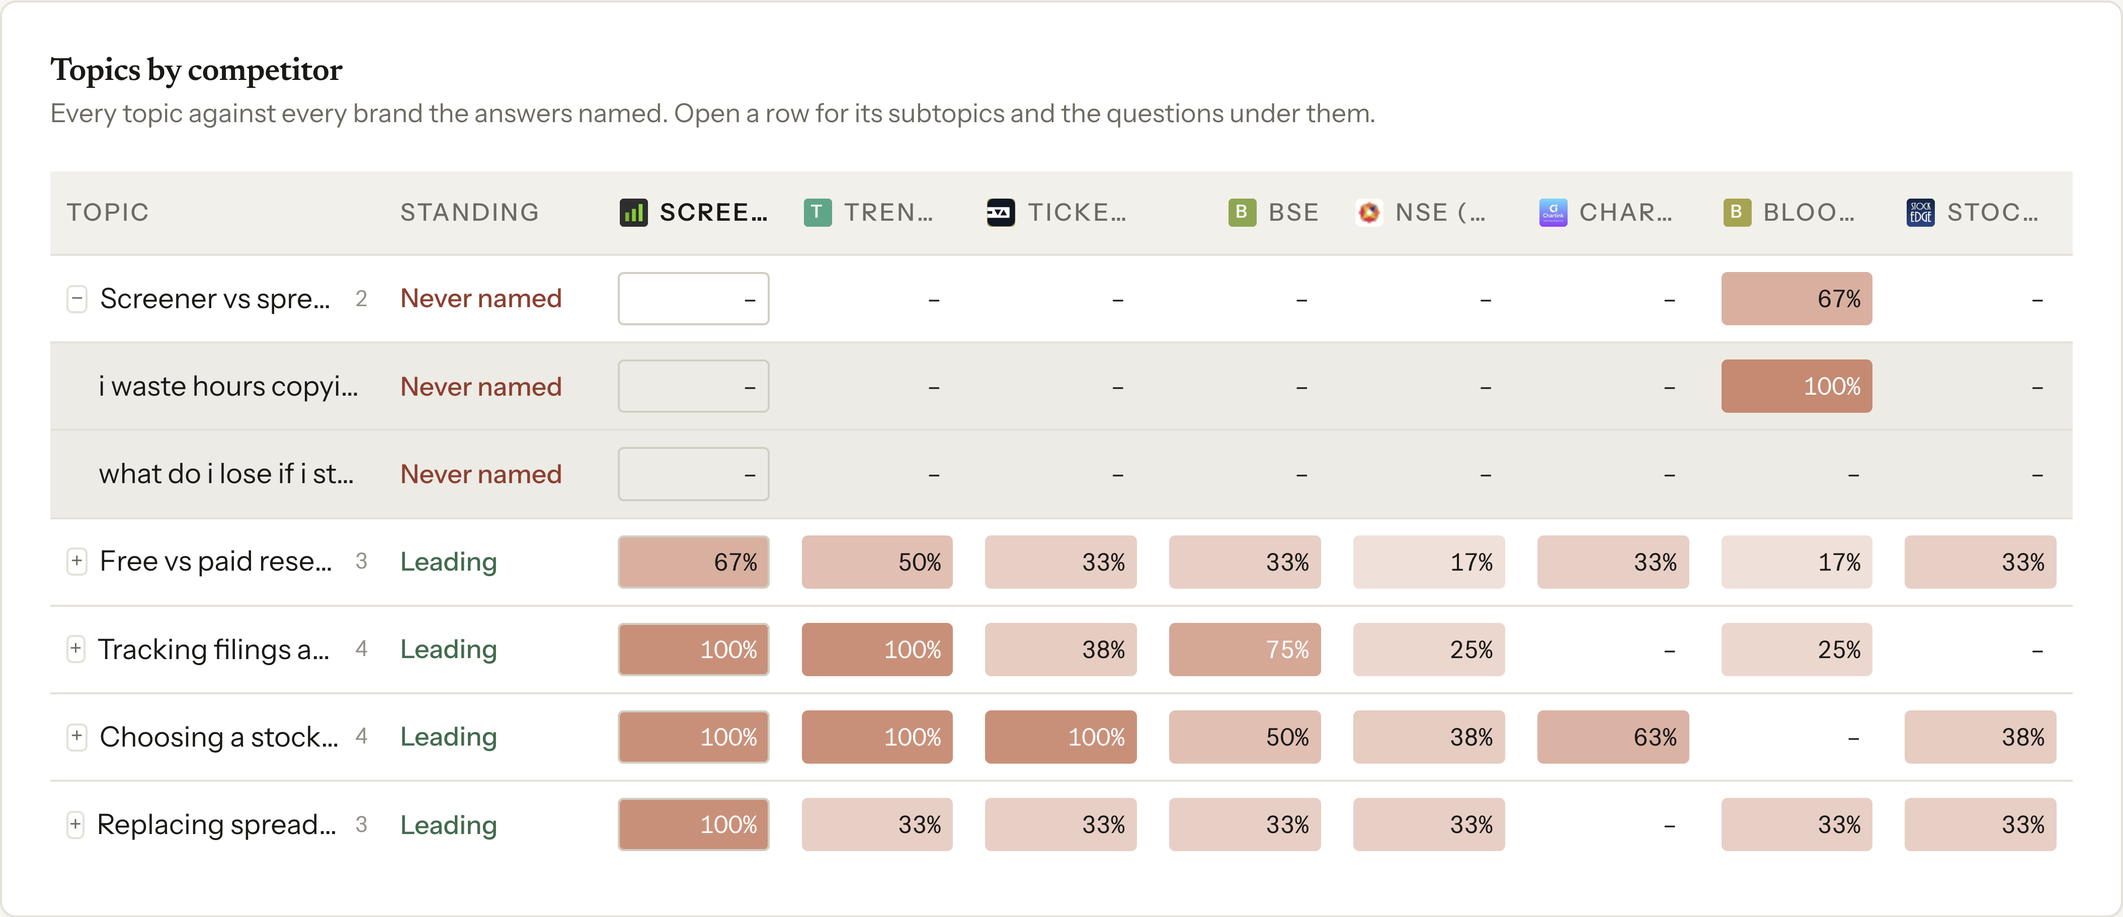
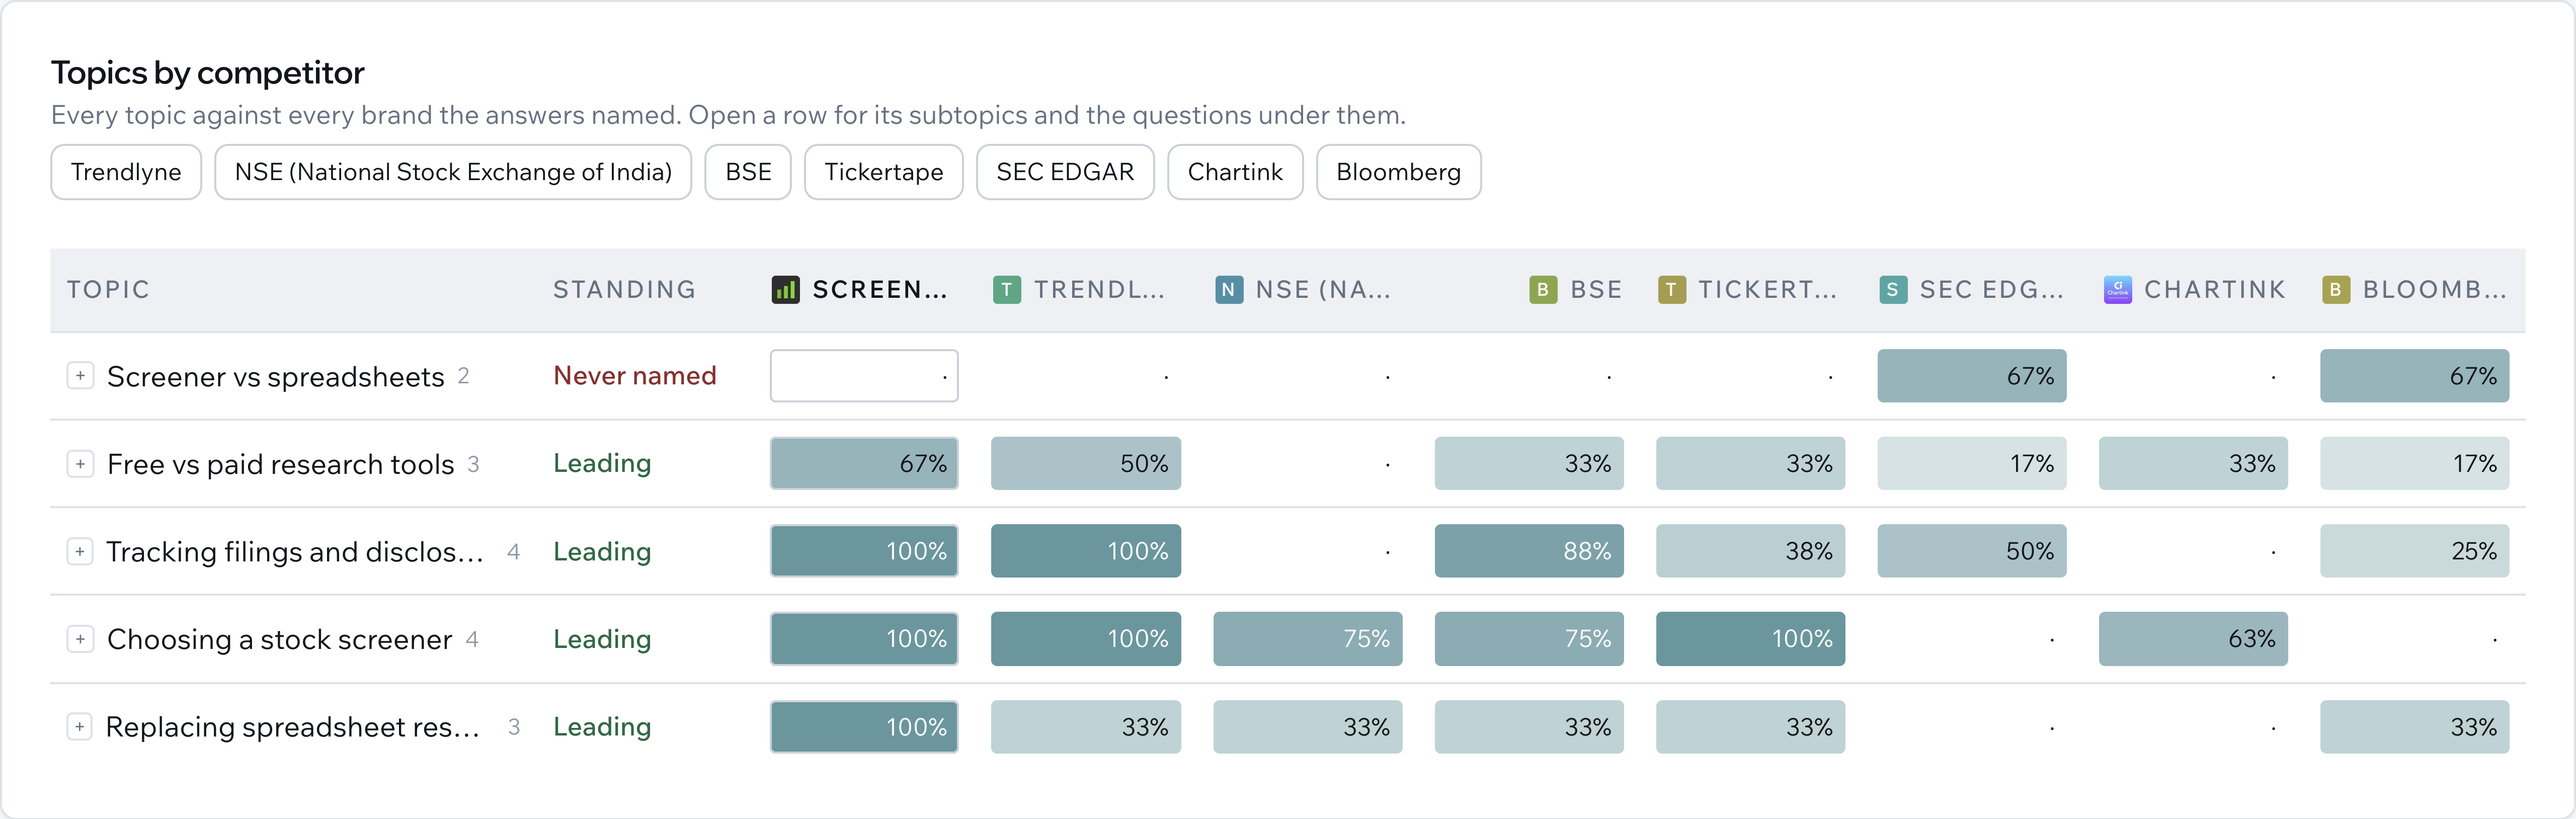
Three roadmap items that shipped and stayed on the roadmap
The README and the roadmap describe a product from before the repalette.

Every screenshot was taken on 23 September, against the warm cream, the serif
display face and the terracotta accent that the repalette replaced. The shop
window shows a product nobody can open any more. The four static ones are
retaken from the same project they always came from, so the figures are the
same real ones: 76.3, first of 57, named in 26 of 31, prominence 82, framing 96.
The three animations still show the old look and need re-recording.

The roadmap's Outstanding table listed three things as blocked. All three are
built. Fix as a pull request is src/product/integrations; Search Console is a
whole directory with OAuth, service accounts, queries, pages and referrals, and
this install has pulled five thousand query rows with it; engines with no API
are four browser surfaces with a reach probe. The README repeated the third as
"on the roadmap and blocked on browser automation". A roadmap that still lists
what shipped is the same failure as a figure that still counts what was
retired.

What is actually outstanding is the demand corpus, which can only be indexed
from the command line.

Two other claims moved with the code: crawler analytics takes an uploaded log
now and counts per project, and the hero carries average position beside the
other three.

And the panel those screenshots are of had a bug the old ones hid. The topic
[…]

diff --git a/src/ui/app/pages/dashboard-view.ts b/src/ui/app/pages/dashboard-view.ts
@@ -790,7 +790,11 @@ export function topicMatrix(data: MatrixData, open: string[] = []): string {
     return '<p class="subtle">No answer has been scored against a topic yet.</p>';
   }
   const shown = new Set(open);
-  const columns = `grid-template-columns:minmax(150px,1.4fr) 92px repeat(${data.columns.length},minmax(52px,1fr))`;
+  // The topic name is what the row is about and it was losing to eight share
+  // columns: at the width this panel renders, 1.4fr of 9.4 left it 164px and
+  // "Screener vs spreadsheets" came out as "Screener vs spr…". A percentage
+  // needs far less room than a sentence does.
+  const columns = `grid-template-columns:minmax(190px,2.4fr) 92px repeat(${data.columns.length},minmax(46px,1fr))`;
   const heads = data.columns.map((column) =>
     `<span class="mxhead ${column.isTarget ? "is-you" : ""}" title="${html(column.name)}">${brandIcon(column.name, column.icon)}<b>${html(column.name.length > 11 ? column.name.slice(0, 10) + "…" : column.name)}</b></span>`).join("");
   const visible = data.rows.filter((row) => !row.parent || shown.has(row.parent));

diff --git a/README.md b/README.md
@@ -64,20 +64,25 @@ it sits each archived answer, the question that produced it, the model that
 wrote it and the sentences themselves.
 
 <p align="center">
-  <img src="assets/readme/hero.png" alt="A visibility score of 76.3, up 3.7, ranked first of 71 brands, with presence 84 percent, prominence 82 percent and sentiment 96 percent beside it" width="900">
+  <img src="assets/readme/hero.png" alt="A visibility score of 76.3, ranked first of 57 brands, with presence 84 percent, average position 2.2, prominence 82 percent and sentiment 96 percent beside it" width="900">
 </p>
 
-The score is never shown alone. Presence, prominence and sentiment sit beside
-it with the counts they came from, because a composite with no components is a
-number you cannot argue with.
+The score is never shown alone. Presence, position, prominence and sentiment sit
+beside it with the counts they came from, because a composite with no components
+is a number you cannot argue with. Where there is no earlier run big enough to
+compare against, it says so rather than drawing a movement.
 
 <p align="center">
-  <img src="assets/readme/share-of-voice.png" alt="Share of voice: a line per brand across runs, with a ranked list beside it showing each brand's share and movement in percentage points" width="900">
+  <img src="assets/readme/share-of-voice.png" alt="Share of voice: the ranked standings beside the chart, each brand with its share and its movement in percentage points" width="900">
 </p>
 
 Share of voice, with the standings beside the chart rather than a colour key to
-decode. Brands level on share take the same place. A brand nobody named still
-gets a line, along the bottom, because that absence is the finding.
+decode. Brands level on share take the same place, and a brand nobody named
+still gets a line along the bottom, because that absence is the finding. The
+chart is drawn over the runs that asked enough answers for a share to mean
+anything, and says how many it left out: a run of one answer gives every brand
+nought or one, and a line through those draws the run size rather than the
+visibility.
 
 <p align="center">
   <img src="assets/readme/heatmap.gif" alt="The topics by competitor heatmap, where opening a topic row reveals the individual questions under it" width="900">
@@ -182,7 +187,7 @@ nothing anywhere except to the model APIs you configure.
 | :--- | :--- |
 | **Scheduled measurement** | Repeat a scope on a cadence through the monitoring worker. Changing your model selection never fabricates history for the new models. |
 | **Digests** | Reported only when something moved, with the baseline advancing only on a send that succeeded. |
-| **AI crawler analytics** | Which AI crawlers reached your site, from a combined-format access log, with the three states a frequency chart hides: allowed but never arrived, fetched but never cited, and cited but never fetched. |
+| **AI crawler analytics** | Which AI crawlers reached your site, from a combined-format access log you upload or one the server can read, with the three states a frequency chart hides: allowed but never arrived, fetched but never cited, and cited but never fetched. Counted per project, so two sites on one server never share a figure. |
 | **Site signal probe** | Schema, `llms.txt` and robots state on a worker cadence, with stored history and a diff between probes. |
 | **Next actions** | A plan built from the stored probe and the real evidence, never from a model's opinion. |
 
@@ -251,8 +256,14 @@ Any model reachable through OpenRouter, the OpenAI, Anthropic, Google Gemini,
 Perplexity and DeepSeek APIs, or through a cloud account you already hold:
 Azure OpenAI, Amazon Bedrock, Google Vertex AI, Databricks model serving and
 IBM watsonx.ai. Any OpenAI-compatible endpoint works too, including a local
-gateway. Engines with no API, such as Google AI Overviews, are
-on the [roadmap](ROADMAP.md) and blocked on browser automation.
+gateway.
+
+Engines with no API are driven in a browser you point it at: Google AI
+Overviews, Perplexity, ChatGPT and Copilot. It never scans for a browser; it
+drives the endpoint you name, and a reach probe says which of the four it can
+reach right now rather than failing in the middle of a run. Surfaces behind a
+sign-in wall stay signed in to your own session, which is why this is something
+you run rather than something a server does for you.
 
 ### Does it need my data to leave my machine?
 

diff --git a/ROADMAP.md b/ROADMAP.md
@@ -50,9 +50,16 @@ Everything below needs something this project cannot provide for itself.
 
 | # | Feature | Taken from | Blocked on |
 | :-- | :--- | :--- | :--- |
-| 1 | **Fix as a pull request**: generate the schema, `llms.txt` and robots patch and open a PR against the site repo | Action loop | Write access to the site's own repository |
-| 2 | **Search Console integration**: real query and impression data, alongside the open-corpus demand figures | Demand data | Google OAuth credentials |
-| 3 | **Engines with no API**: Google AI Overviews, AI Mode, Copilot through a driven browser | Engine coverage | Browser automation and the maintenance it carries |
+| 1 | **Demand corpus from the portal**: index an openly licensed conversation corpus without the command line | Demand data | A long-running import the server does not yet own |
+
+The three that used to sit here are built. They stayed on this list after they
+shipped, which is its own kind of wrong number:
+
+| Feature | Where it lives now |
+| :--- | :--- |
+| **Fix as a pull request** | `src/product/integrations/fix-pull-request.ts` and `github-client.ts`. It still needs write access to the site's repository, which is a credential the operator supplies, not a thing to build. |
+| **Search Console integration** | `src/product/search-console`. OAuth, service accounts, queries, pages and assistant referrals. |
+| **Engines with no API** | `src/product/engines`. Google AI Overviews, Perplexity, ChatGPT and Copilot through a browser this product finds rather than scans for, with a reach probe that says which of them it can actually drive today. |
 
 ## Built, waiting on data rather than code
 
